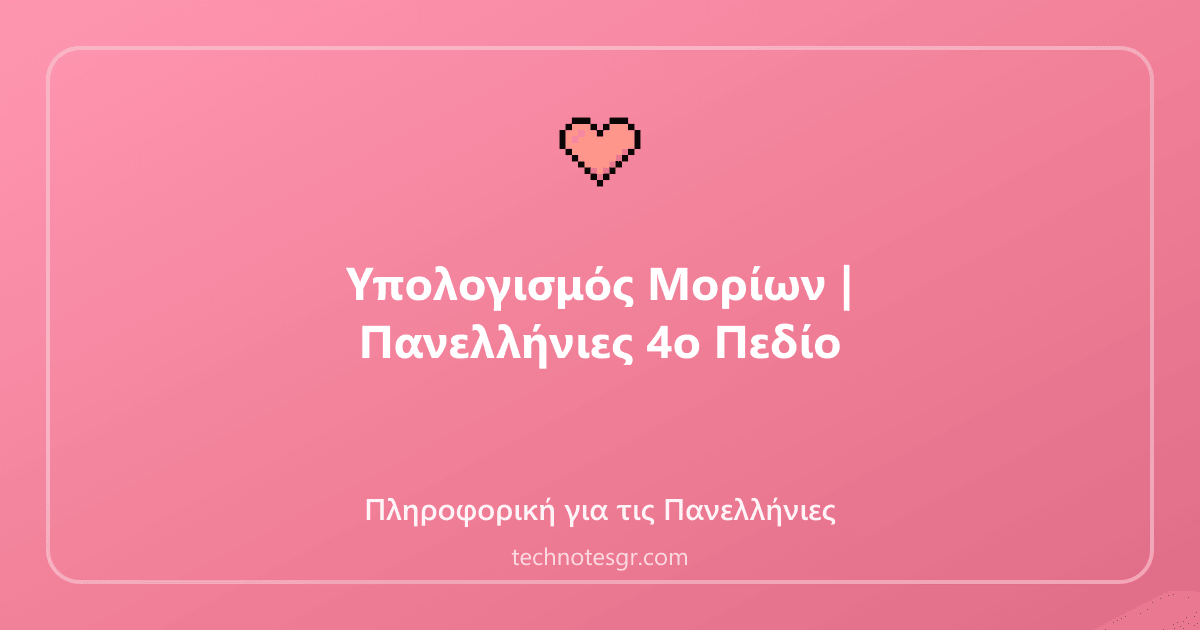
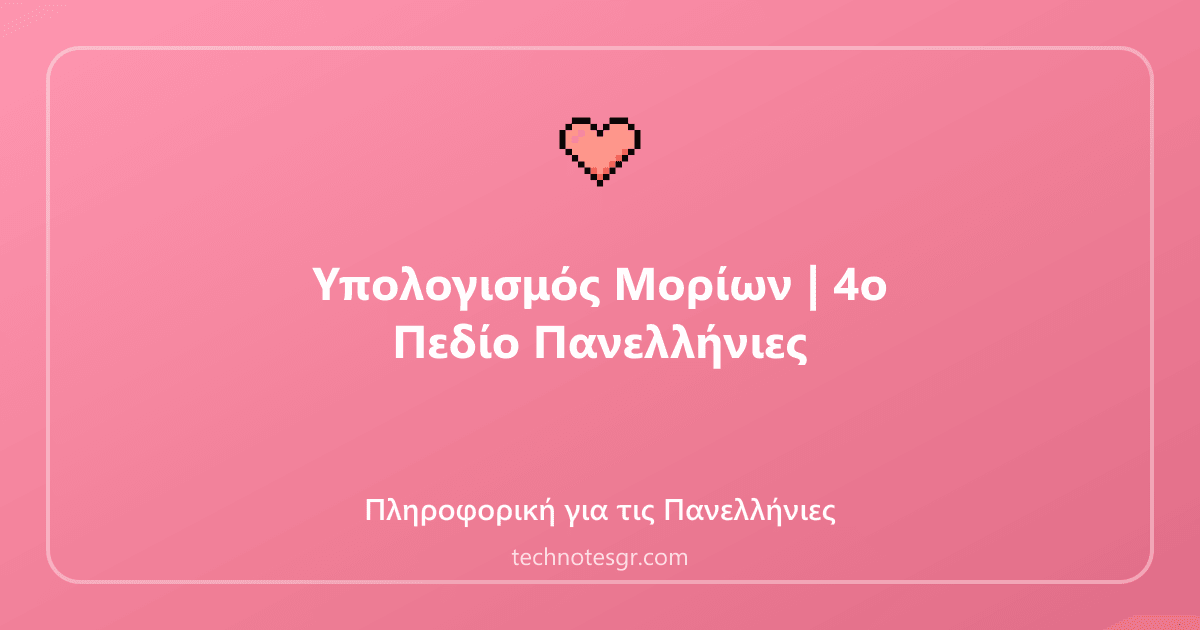
Unify dark-mode background across study pages; fix footer gradient; fix stray 404 tab titles
- Flashcards used dark:bg-black while Quiz/Methodologies (via MainLayout's
  default background) and other study pages used various off-brand grays
  (gray-900, gray-950). Normalized Flashcards, Παλιά Θέματα, Ασκήσεις,
  Progress Tracker, Study Timer, and Βιβλία to the exact same dark navy
  gradient MainLayout already uses by default (#0b1020 → #141b34 → #0b1020),
  so dark mode now looks identical across all of these pages instead of each
  picking a slightly different shade of near-black.
- Footer's decorative gradient overlay ended in `dark:to-white`, so dark mode
  faded to a bright white patch at the bottom of the footer. Disabled the
  gradient overlay entirely in dark mode (dark:bg-none), leaving just the
  flat footer background color as requested.
- Several live, reachable routes (/vivlia, /ypologismos-morion,
  /mixanografiko, /antistoixies-sxolon, /meteggrafes, /sygkrisi-mathimaton)
  had no entry in seoConfig's PAGE_SEO map, so SeoHead's fallback silently
  set the browser tab title to "404 | Η σελίδα δεν βρέθηκε | Technotes" on
  those working pages. Added proper SEO entries for all of them.

diff --git a/frontend/src/seo/seoConfig.ts b/frontend/src/seo/seoConfig.ts
@@ -262,6 +262,74 @@ export const PAGE_SEO: Record<string, PageSeo> = {
       { name: 'ΣΑΕΚ', path: '/saek' },
     ],
   },
+  '/vivlia': {
+    path: '/vivlia',
+    slug: 'vivlia',
+    title: 'Σχολικά Βιβλία Πληροφορικής | Technotes',
+    description:
+      'Σχολικά βιβλία ΑΕΠΠ και Πληροφορικής Γ\' Λυκείου σε online προβολή — βιβλίο μαθητή και συμπληρωματικό εκπαιδευτικό υλικό.',
+    ogImage: og('vivlia'),
+    breadcrumbs: [
+      { name: 'Αρχική', path: '/' },
+      { name: 'Βιβλία', path: '/vivlia' },
+    ],
+  },
+  '/ypologismos-morion': {
+    path: '/ypologismos-morion',
+    slug: 'ypologismos-morion',
+    title: 'Υπολογισμός Μορίων | 4ο Πεδίο Πανελλήνιες',
+    description:
+      'Υπολόγισε τα μόριά σου για σχολές 4ου επιστημονικού πεδίου με βάση τους συντελεστές και τους βαθμούς σου στα Πανελλήνια εξεταζόμενα μαθήματα.',
+    ogImage: og('ypologismos-morion'),
+    breadcrumbs: [
+      { name: 'Αρχική', path: '/' },
+      { name: 'Υπολογισμός Μορίων', path: '/ypologismos-morion' },
+    ],
+  },
+  '/mixanografiko': {
+    path: '/mixanografiko',
+    slug: 'mixanografiko',
+    title: 'Μηχανογραφικό (Πρόβα) | 4ο Πεδίο',
+    description:
+      'Φτιάξε πρόβα μηχανογραφικού για σχολές 4ου επιστημονικού πεδίου: σειρά προτίμησης, μόρια και βάσεις εισαγωγής.',
+    ogImage: og('mixanografiko'),
+    breadcrumbs: [
+      { name: 'Αρχική', path: '/' },
+      { name: 'Μηχανογραφικό', path: '/mixanografiko' },
+    ],
+  },
+  '/antistoixies-sxolon': {
+    path: '/antistoixies-sxolon',
+    slug: 'antistoixies-sxolon',
+    title: 'Αντιστοιχίες Σχολών | 4ο Πεδίο',
+    description:
+      'Επίσημος πίνακας αντίστοιχων τμημάτων ΑΕΙ 4ου επιστημονικού πεδίου — ποια τμήματα θεωρούνται «αντίστοιχα» μεταξύ τους.',
+    ogImage: og('antistoixies-sxolon'),
+    breadcrumbs: [
+      { name: 'Αρχική', path: '/' },
+      { name: 'Αντιστοιχίες Σχολών', path: '/antistoixies-sxolon' },
+    ],
+  },
+  '/meteggrafes': {
+    path: '/meteggrafes',
+    slug: 'meteggrafes',
+    title: 'Μετεγγραφές Φοιτητών | Προϋποθέσεις & Μόρια',
+    description:
+      'Προϋποθέσεις και μοριοδότηση μετεγγραφών φοιτητών ΑΕΙ — οικογενειακό εισόδημα, αδέλφια σε άλλη πόλη και λοιπά κριτήρια.',
+    ogImage: og('meteggrafes'),
+    breadcrumbs: [
+      { name: 'Αρχική', path: '/' },
+      { name: 'Μετεγγραφές', path: '/meteggrafes' },
+    ],
+  },
+  '/sygkrisi-mathimaton': {
+    path: '/sygkrisi-mathimaton',
+    slug: 'sygkrisi-mathimaton',
+    title: 'Σύγκριση Μαθημάτων Σχολών | Technotes',
+    description: 'Σύγκριση εξεταζόμενων μαθημάτων και προγραμμάτων σπουδών σχολών 4ου επιστημονικού πεδίου.',
+    ogImage: og('sygkrisi-mathimaton'),
+    noindex: true,
+  },
 };
 
 export const NOT_FOUND_SEO: PageSeo = {

diff --git a/frontend/src/components/private/Flashcards.tsx b/frontend/src/components/private/Flashcards.tsx
@@ -387,7 +387,7 @@ const Flashcards: React.FC = () => {
 
   if (loading) {
     return (
-      <div className="min-h-screen bg-coral-wash dark:bg-black flex items-center justify-center">
+      <div className="min-h-screen bg-coral-wash dark:bg-gradient-to-br dark:from-[#0b1020] dark:via-[#141b34] dark:to-[#0b1020] flex items-center justify-center">
         <motion.div initial={{ opacity: 0 }} animate={{ opacity: 1 }}>
           <motion.div
             className="w-16 h-16 rounded-full border-4 border-t-transparent mb-4"
@@ -402,7 +402,7 @@ const Flashcards: React.FC = () => {
   }
 
   return (
-    <div className="min-h-screen bg-coral-wash dark:bg-black">
+    <div className="min-h-screen bg-coral-wash dark:bg-gradient-to-br dark:from-[#0b1020] dark:via-[#141b34] dark:to-[#0b1020]">
       <header className="border-b border-[#f07f97]/35 dark:border-white/10 bg-white/90 dark:bg-[#3a2658]/90 backdrop-blur-md">
         <motion.div
           className="max-w-4xl mx-auto px-4 sm:px-6 py-10 sm:py-12 text-center"

diff --git a/frontend/src/layouts/MainLayout.tsx b/frontend/src/layouts/MainLayout.tsx
@@ -627,7 +627,7 @@ const MainLayout: React.FC<MainLayoutProps> = ({ children }) => {
       {!isQuizPage && (
       <footer className="relative -mt-px overflow-hidden border-0 bg-[#ff97b2] dark:bg-[#2d1c48]">
         <div
-          className="pointer-events-none absolute inset-0 bg-gradient-to-b from-transparent via-[#ffd4e3] to-white dark:from-transparent dark:via-[#3d2858] dark:to-white"
+          className="pointer-events-none absolute inset-0 bg-gradient-to-b from-transparent via-[#ffd4e3] to-white dark:bg-none"
           aria-hidden="true"
         />
         <div className="relative z-10 container mx-auto px-4 sm:px-6 py-8 pb-[max(2rem,env(safe-area-inset-bottom))] grid grid-cols-1 md:grid-cols-3 gap-8 md:gap-0 items-start w-full max-w-[100vw]">

diff --git a/frontend/src/pages/private/PaliathemataPage.tsx b/frontend/src/pages/private/PaliathemataPage.tsx
@@ -294,7 +294,7 @@ const PaliathemataPage: React.FC = () => {
       : 'χρονιές';
 
   return (
-    <div className="min-h-screen bg-gradient-to-br from-coral-wash via-white to-coral-wash dark:from-gray-900 dark:via-gray-900 dark:to-gray-900">
+    <div className="min-h-screen bg-gradient-to-br from-coral-wash via-white to-coral-wash dark:from-[#0b1020] dark:via-[#141b34] dark:to-[#0b1020]">
       {/* Header Section */}
       <header className="border-b border-[#f07f97]/35 dark:border-white/10 bg-white/90 dark:bg-[#3a2658]/90 backdrop-blur-md py-10 sm:py-12 px-4 sm:px-6">
         <div className="relative max-w-4xl mx-auto text-center">

diff --git a/frontend/src/pages/public/VivliaPage.tsx b/frontend/src/pages/public/VivliaPage.tsx
@@ -35,7 +35,7 @@ const VivliaPage: React.FC = () => {
   }, [activeId]);
 
   return (
-    <div className="min-h-screen bg-coral-wash dark:bg-gradient-to-br dark:from-gray-950 dark:via-gray-900 dark:to-gray-900 px-4 sm:px-6 py-6 sm:py-8">
+    <div className="min-h-screen bg-coral-wash dark:bg-gradient-to-br dark:from-[#0b1020] dark:via-[#141b34] dark:to-[#0b1020] px-4 sm:px-6 py-6 sm:py-8">
       <div className="max-w-6xl mx-auto flex flex-col gap-4">
         <div className="flex items-center gap-3">
           <MenuIconImg src={MENU_ICONS.vivlia} className="w-9 h-9 sm:w-10 sm:h-10" />

diff --git a/frontend/src/pages/private/ProgressTrackerPage.tsx b/frontend/src/pages/private/ProgressTrackerPage.tsx
@@ -96,7 +96,7 @@ const ProgressTrackerPage: React.FC = () => {
   }, [isAllComplete]);
 
   return (
-    <div className="min-h-screen bg-gradient-to-br from-coral-wash via-white to-coral-wash dark:from-gray-900 dark:via-gray-900 dark:to-gray-800 p-4 sm:p-6">
+    <div className="min-h-screen bg-gradient-to-br from-coral-wash via-white to-coral-wash dark:from-[#0b1020] dark:via-[#141b34] dark:to-[#0b1020] p-4 sm:p-6">
       {showConfetti && (
         <div className="fixed inset-0 pointer-events-none z-50 overflow-hidden">
           {Array.from({ length: 80 }).map((_, i) => (

diff --git a/frontend/src/pages/private/StudyTimerPage.tsx b/frontend/src/pages/private/StudyTimerPage.tsx
@@ -181,7 +181,7 @@ const StudyTimerPage: React.FC = () => {
   };
 
   return (
-    <div className="min-h-screen bg-gradient-to-br from-coral-wash via-white to-coral-wash dark:from-gray-950 dark:via-gray-900 dark:to-gray-900 p-4 sm:p-8">
+    <div className="min-h-screen bg-gradient-to-br from-coral-wash via-white to-coral-wash dark:from-[#0b1020] dark:via-[#141b34] dark:to-[#0b1020] p-4 sm:p-8">
       <div className="max-w-4xl mx-auto">
         <motion.div
           initial={{ opacity: 0, y: 12 }}

diff --git a/frontend/src/pages/private/AskiseisPage.tsx b/frontend/src/pages/private/AskiseisPage.tsx
@@ -211,7 +211,7 @@ const AskiseisPage: React.FC = () => {
 
   return (
     <motion.div
-      className="min-h-screen bg-gradient-to-br from-coral-wash via-white to-coral-wash dark:from-gray-900 dark:via-gray-900 dark:to-gray-900"
+      className="min-h-screen bg-gradient-to-br from-coral-wash via-white to-coral-wash dark:from-[#0b1020] dark:via-[#141b34] dark:to-[#0b1020]"
       initial={{ opacity: 0 }}
       animate={{ opacity: 1 }}
       transition={{ duration: 0.3 }}
